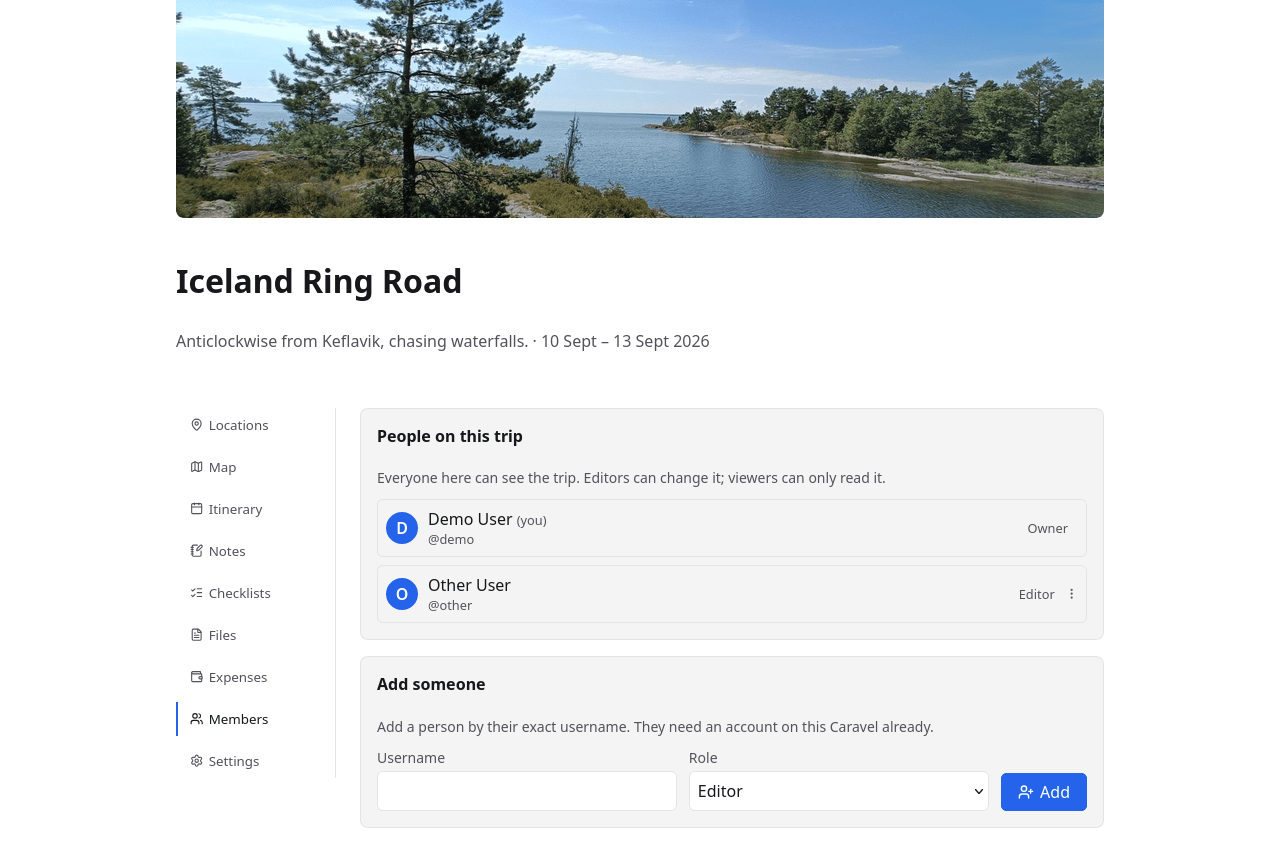
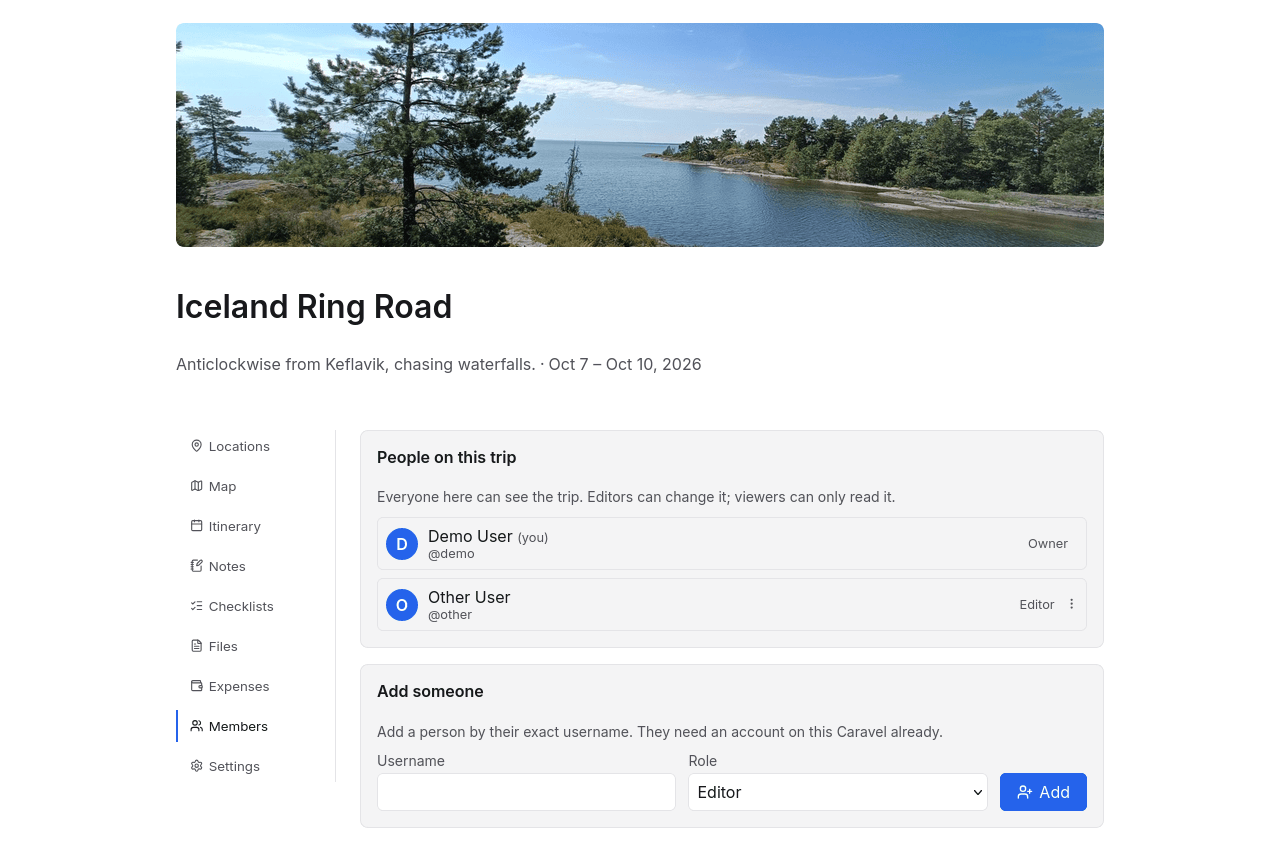
Stage 41 Milestone 3: the screenshots, and a face the site never loaded
All 16 documentation screenshots were captured in Noto Sans and now show
Inter. Regenerated against the working tree and quantised 3520K -> 1004K;
compared against the committed versions the difference is unmistakable, with
Inter's tighter rows fitting visibly more of the expense form into the same
frame. The dates moved too, but only because the seeder places them relative to
today.

Worth knowing: pngquant was not installed, and without it gen_screenshots.sh
still runs and merely says the output will be ~3x larger -- which would have
quietly committed a 3.5MB set. Fetched and extracted the package with rpm2cpio
instead, the same way Milestone 1 got the fonts.

Also here, and carried in todo.md since Stage 18: the documentation site shipped
a Montserrat 500 that nothing on it ever loaded. It was deferred each time
because fixing it meant a generator whose destinations differ; Milestone 1 built
most of that, so this is the rest. A destination is now (path, weights) rather
than a path, and docs/ takes 700 alone, because every Montserrat rule in
docs/assets/stylesheets/brand.css is font-weight: 700. The dead @font-face went
with it. Note the trap, the same one CLAUDE.md records for sqlc: the generator
stopped writing montserrat-500.woff2 but did not delete the committed one, so
that needed a git rm by hand.

docs/assets/brand/README.md had a Type section that only knew about Montserrat.
It now states the split -- Montserrat for identity, Inter for everything else,
[…]

diff --git a/docs/assets/stylesheets/brand.css b/docs/assets/stylesheets/brand.css
@@ -21,14 +21,6 @@
 @font-face {
   font-family: "Montserrat";
   font-style: normal;
-  font-weight: 500;
-  font-display: swap;
-  src: url("../fonts/montserrat-500.woff2") format("woff2");
-}
-
-@font-face {
-  font-family: "Montserrat";
-  font-style: normal;
   font-weight: 700;
   font-display: swap;
   src: url("../fonts/montserrat-700.woff2") format("woff2");

diff --git a/scripts/gen_brand_fonts.py b/scripts/gen_brand_fonts.py
@@ -36,13 +36,18 @@ from fontTools import subset
 # which is every locale under web/locales today.
 UNICODES = "U+0020-007E,U+00A0-00FF,U+0100-017F,U+2013-2014,U+2018-201A,U+201C-201E,U+2026,U+20AC"
 
-# Destinations are per family rather than global. The app serves everything
-# from web/fonts/ (embedded into the binary); the documentation site can only
-# reach files under its own docs_dir, so it needs its own copy -- but it only
-# sets the brand lockups in Montserrat and takes its body text from Material,
-# so shipping it the UI face would be dead weight in the repository and in the
-# search index. Writing the site copy here is what stops it drifting to an
-# older subset than the app.
+# Destinations are per family, and carry the weights that destination actually
+# uses. The app serves everything from web/fonts/ (embedded into the binary);
+# the documentation site can only reach files under its own docs_dir, so it
+# needs its own copy -- but it only sets the brand lockups in Montserrat and
+# takes its body text from Material, so it gets neither the UI face nor the
+# weights it never asks for. Writing the site copy here is what stops it
+# drifting to an older subset than the app.
+#
+# A destination is (path parts, weights) where weights of None means all of
+# them. docs/ takes 700 alone because every Montserrat rule in
+# docs/assets/stylesheets/brand.css is font-weight: 700 -- the 500 shipped
+# there for two stages without a single rule matching it.
 WEB = ("web", "fonts")
 DOCS = ("docs", "assets", "fonts")
 
@@ -59,7 +64,7 @@ FAMILIES = [
             500: "Montserrat-Medium.otf",
             700: "Montserrat-Bold.otf",
         },
-        "destinations": [WEB, DOCS],
+        "destinations": [(WEB, None), (DOCS, (700,))],
     },
     {
         "slug": "inter",
@@ -76,15 +81,19 @@ FAMILIES = [
             500: "Inter-Medium.ttf",
             600: "Inter-SemiBold.ttf",
         },
-        "destinations": [WEB],
+        "destinations": [(WEB, None)],
     },
 ]
 
 
-def build(family, out_dir):
+def build(family, out_dir, weights=None):
     os.makedirs(out_dir, exist_ok=True)
     slug = family["slug"]
-    for weight, filename in sorted(family["weights"].items()):
+    wanted = {w: f for w, f in family["weights"].items() if weights is None or w in weights}
+    missing = set(weights or ()) - set(family["weights"])
+    if missing:
+        sys.exit(f"{slug}: destination asks for weight(s) {sorted(missing)}, which WEIGHTS does not define")
+    for weight, filename in sorted(wanted.items()):
         source = os.path.join(family["source_dir"], filename)
         if not os.path.exists(source):
             sys.exit(f"missing {source} — is {family['package']} installed?")
@@ -119,7 +128,7 @@ def build(family, out_dir):
 if __name__ == "__main__":
     root = os.path.join(os.path.dirname(__file__), "..")
     for family in FAMILIES:
-        for parts in family["destinations"]:
+        for parts, weights in family["destinations"]:
             out = os.path.join(root, *parts)
-            build(family, out)
+            build(family, out, weights)
             print(f"{family['slug']} written to", os.path.normpath(out))

diff --git a/plans/stage-41.md b/plans/stage-41.md
@@ -332,6 +332,52 @@ about the site shipping an unloaded Montserrat 500 should be revisited — the
 family restructure in Milestone 1 makes fixing it a one-line change to a
 destination list.
 
+**Done.** Three parts, and the middle one turned out to be more than paperwork.
+
+*The screenshots are regenerated.* All 16, captured against the working tree,
+quantised 3520K down to 1004K. They were showing Noto Sans; compared against
+the committed versions the difference is unmistakable — Inter's tighter rows fit
+visibly more of the expense form into the same frame. The dates moved too, but
+only because the seeder places them relative to today.
+
+One environment note for the next person: `pngquant` was not installed, and
+without it the script still runs and says the output will be about 3x larger —
+which would have quietly committed a 3.5MB set. Fetched the package and
+extracted it with `rpm2cpio` rather than accepting that, the same trick
+Milestone 1 used for the fonts. The warning is well placed; it is also easy to
+scroll past.
+
+*The documentation site stopped shipping a face it never loads.* `todo.md` has
+carried that since Stage 18, deferred each time because the fix meant a
+generator whose destinations differ. Milestone 1 built most of that, so this
+was the rest: a destination is now `(path, weights)` rather than a path, and
+`docs/` takes 700 alone, because every Montserrat rule in
+`docs/assets/stylesheets/brand.css` is `font-weight: 700`. The dead `@font-face`
+went with it. Note the trap, which is the same one CLAUDE.md records for `sqlc`:
+the generator stopped *writing* `montserrat-500.woff2` but did not delete the
+committed one, so that needed a `git rm` by hand.
+
+Verified in a browser rather than by inspection: the built site now reports
+exactly one face, `"Montserrat"/700/loaded`, the wordmark measures 118.7px
+against a 105.8px fallback so it is genuinely rendering in it, and nothing
+requests the dropped file. `web/fonts/` came out byte-identical again, which is
+what says the weight filter did not disturb the app.
+
+*The brand documentation says where the line falls.* `docs/assets/brand/README.md`
+had a Type section that only knew about Montserrat. It now states the split —
+Montserrat for identity, Inter for everything else, `var(--font-brand)` versus
+`var(--font-ui)` for anyone adding a surface — records why bold is Montserrat
+700 and not an Inter 700, and explains why the docs site is the deliberate
+exception.
+
+*Also recorded, not fixed:* the site's theme fetches the GitHub releases API on
+every page load and gets a 404, since the project has published no releases.
+Out of scope here and now in `todo.md`, but worth naming given the same
+document makes a point of never loading fonts from a third party.
+
+*Verified overall.* `make ci` green, `make docs` green, screenshot parity check
+passing (16 committed, all shown by a page).
+
 ## Build order
 
 1. Milestone 1 — the faces, the generator, the wiring.

diff --git a/plans/todo.md b/plans/todo.md
@@ -757,6 +757,15 @@ purpose — do not reconstruct it from an older stage plan without asking.
 
 ## Deployment and operations
 
+- **The documentation site calls the GitHub API on every page load, and gets a
+  404.** (Noticed in Stage 41 Milestone 3.) The theme's repository widget
+  fetches `api.github.com/repos/lkiesow/caravel/releases/latest` to show a
+  version, and the project has published no releases, so every visitor makes an
+  off-origin request that fails. Two separate things to weigh: the failed
+  request is cosmetic, but a site whose own brand documentation makes a point
+  of never loading fonts from a third party is quietly calling GitHub on every
+  page anyway. Either publish a release, or turn the widget off.
+
 - **The font files are not preloaded.** (Stage 41 Milestone 2.) They are
   requested only once `base.css` has been fetched and parsed, so on a cold load
   the fallback is shown for about one extra round trip longer than it needs to
@@ -788,16 +797,6 @@ else runs this.
   `docs/index.md`, and the skip link pointing at a markdown-derived anchor that
   an emptied content block does not render). When bumping, drop the workarounds
   and re-check the landing page title and skip link.
-
-- **The site ships a font face it never loads.** (Stage 18 Milestone 9;
-  re-costed in Stage 41 Milestone 1.) `scripts/gen_brand_fonts.py` writes both
-  weights to `docs/assets/fonts/`, but nothing on the site uses Montserrat 500
-  -- `document.fonts` confirms it stays unloaded, so it costs a committed 17
-  KiB and no request. What used to make this not worth fixing was that the
-  alternative meant a generator whose destinations differ per family; Stage 41
-  Milestone 1 built exactly that to keep Inter out of the docs copy, so the fix
-  is now a weight list rather than a restructure. Trim it if no docs page ever
-  wants the 500.
 
 - **Nothing tests the documentation site's rendering.** (Stage 18 Milestone 9.)
   `zensical build --strict` catches dead links and unresolved references, which

diff --git a/docs/assets/brand/README.md b/docs/assets/brand/README.md
@@ -59,6 +59,31 @@ The app and the documentation site render the wordmark as live text instead, in 
 self-hosted trip planner that phones out to Google on every page load would be
 the wrong trade, and the app has to work offline.
 
+### Where the line between the two faces falls
+
+Montserrat is the **brand** face and nothing else. It sets the wordmark, the
+tagline and the hero titles — the places where the type is doing identity work.
+It is geometric and wide, which is what makes it good at that and bad at
+paragraphs.
+
+Everything else in the app is **Inter**, the UI face, self-hosted from the same
+generator in three weights (400 body, 500, 600 emphasis). It is drawn for
+interfaces at small sizes and carries the tabular figures the expense columns
+need. Bold in the app is Montserrat 700, not an Inter 700, which is why no such
+file is shipped.
+
+Before Stage 41 the app simply asked for `system-ui` and got whatever the
+machine had — Segoe UI, Roboto, San Francisco, Noto Sans, DejaVu Sans. The same
+element measured 44px tall on one machine and 38px on another, and two real
+layout defects survived because nothing had ever stated the metrics it relied
+on. If you are adding a surface, use `var(--font-ui)` and reach for
+`var(--font-brand)` only when the type is the brand speaking.
+
+The documentation site is the exception, and deliberately: it takes its body
+text from Material and only ever sets the lockups, so it gets Montserrat 700
+alone. `scripts/gen_brand_fonts.py` states that per destination rather than
+copying every file everywhere.
+
 ## Rules
 
 Clear space: at least the height of the wing (≈0.35× mark height) on all sides.
